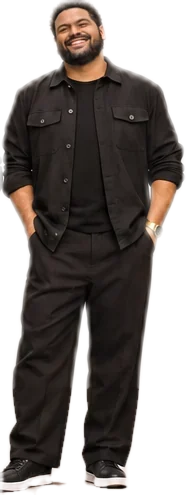
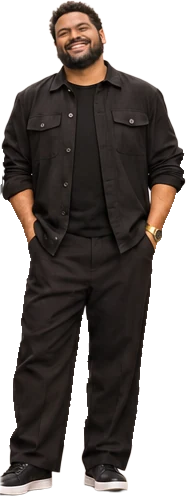
Refina os recortes e o destaque da aba Figurino
- Recortes refeitos com um modelo mais preciso (BiRefNet), pessoa por
  pessoa: sem manchas no chão, sem pedaços de vizinhos, sem fundo preso
  entre as pernas, com pés, saltos e acessórios dourados inteiros
- Contorno dourado iluminado na pessoa em destaque, que acompanha a
  silhueta e disfarça a borda do recorte
- As pessoas das pontas crescem a partir da borda e não saem do quadro
- Com mouse, passar por cima só acende um brilho, sem mover; no celular
  não há efeito de hover preso depois do toque

Claude-Session: https://claude.ai/code/session_017LpdMGLPweg6kQtkkQQm3j

diff --git a/index.html b/index.html
@@ -694,10 +694,17 @@
     .look-dim { position:absolute; inset:0; z-index:1; background:rgba(16,13,10,.5); opacity:0; pointer-events:none; transition:opacity .45s ease; }
     .look-stage.has-front .look-dim { opacity:1; }
     .look-person { position:absolute; z-index:2; margin:0; padding:0; border:0; background:none; cursor:pointer; -webkit-tap-highlight-color:transparent; }
-    .look-person img { position:absolute; inset:0; width:100%; height:100%; display:block; pointer-events:none; opacity:0; transform-origin:50% 100%; transition:transform .55s cubic-bezier(.2,.8,.2,1), filter .55s ease, opacity 0s linear .55s; }
-    .look-person:hover img { opacity:1; transform:translateY(-.6%) scale(1.025); transition:transform .3s ease, opacity 0s; }
+    /* Cada pessoa cresce a partir dos próprios pés; nas pontas, a partir da borda (--ox), para não sair do quadro. */
+    .look-person img { position:absolute; inset:0; width:100%; height:100%; display:block; pointer-events:none; opacity:0; transform-origin:var(--ox,50%) 100%;
+      filter:drop-shadow(0 0 0 rgba(255,236,190,0)) drop-shadow(0 0 0 rgba(240,200,120,0)) drop-shadow(0 0 0 rgba(223,187,119,0)) drop-shadow(0 0 0 rgba(0,0,0,0));
+      transition:transform .55s cubic-bezier(.2,.8,.2,1), filter .55s ease, opacity 0s linear .55s; }
+    /* Com mouse: só um brilho leve, sem mover (o recorte fica exatamente sobre a pessoa da imagem). */
+    @media (hover:hover) and (pointer:fine) { .look-person:not(.is-front):hover img { opacity:1; filter:drop-shadow(0 0 1px rgba(255,236,190,.8)) drop-shadow(0 0 4px rgba(240,200,120,.5)) drop-shadow(0 0 0 rgba(223,187,119,0)) drop-shadow(0 0 0 rgba(0,0,0,0)); transition:filter .25s ease, opacity 0s; } }
     .look-person.is-front { z-index:3; }
-    .look-person.is-front img { opacity:1; transform:translateY(3%) scale(1.22); filter:drop-shadow(0 16px 18px rgba(0,0,0,.45)); transition:transform .55s cubic-bezier(.2,.8,.2,1), filter .55s ease, opacity 0s; }
+    /* Contorno dourado iluminado que acompanha a silhueta e disfarça a borda do recorte. */
+    .look-person.is-front img { opacity:1; transform:translateY(3%) scale(1.22);
+      filter:drop-shadow(0 0 1px rgba(255,236,190,.95)) drop-shadow(0 0 5px rgba(240,200,120,.7)) drop-shadow(0 0 14px rgba(223,187,119,.45)) drop-shadow(0 16px 16px rgba(0,0,0,.45));
+      transition:transform .55s cubic-bezier(.2,.8,.2,1), filter .55s ease, opacity 0s; }
     .look-person:focus-visible { outline:2px solid var(--gold); outline-offset:3px; border-radius:8px; }
     .look-caption { width:min(100%,720px); min-height:3.4em; margin:16px auto 0; color:var(--muted); font-size:.95rem; line-height:1.5; text-align:center; }
     .look-caption strong { display:block; color:var(--gold); font-family:var(--serif); font-size:.82rem; font-weight:500; letter-spacing:.14em; text-transform:uppercase; }
@@ -1156,18 +1163,18 @@ NOV</strong>
         <div class="look-stage reveal" data-look-stage>
           <img class="look-base" src="images/figurino/guia-looks.webp" alt="Guia de looks Sport Chic All Black da Cantata de Natal: seis mulheres e seis homens vestidos de preto. Mulheres: tênis branco ou salto. Homens: tênis claro ou preto. Acessórios dourados." width="1024" height="1536" loading="lazy" decoding="async">
           <span class="look-dim" aria-hidden="true"></span>
-          <button class="look-person" type="button" style="left:2.148%;top:18.750%;width:17.383%;height:36.654%" aria-pressed="false" data-look="Mulheres · Look 1" data-desc="Blazer, blusa e calça pantalona, cinto e acessórios dourados, tênis branco" aria-label="Mulheres, look 1: Blazer, blusa e calça pantalona, cinto e acessórios dourados, tênis branco"><img src="images/figurino/mulheres-1.webp" alt="" width="178" height="563" loading="lazy" decoding="async"></button>
-          <button class="look-person" type="button" style="left:19.434%;top:21.940%;width:17.578%;height:32.161%" aria-pressed="false" data-look="Mulheres · Look 2" data-desc="Vestido midi com manga bufante e sandália de salto" aria-label="Mulheres, look 2: Vestido midi com manga bufante e sandália de salto"><img src="images/figurino/mulheres-2.webp" alt="" width="180" height="494" loading="lazy" decoding="async"></button>
-          <button class="look-person" type="button" style="left:36.914%;top:21.029%;width:13.965%;height:33.529%" aria-pressed="false" data-look="Mulheres · Look 3" data-desc="Blusa sem manga de gola alta, calça pantalona com faixa na cintura e tênis branco" aria-label="Mulheres, look 3: Blusa sem manga de gola alta, calça pantalona com faixa na cintura e tênis branco"><img src="images/figurino/mulheres-3.webp" alt="" width="143" height="515" loading="lazy" decoding="async"></button>
-          <button class="look-person" type="button" style="left:50.781%;top:20.898%;width:14.453%;height:33.919%" aria-pressed="false" data-look="Mulheres · Look 4" data-desc="Vestido envelope midi, bracelete dourado e sandália de salto" aria-label="Mulheres, look 4: Vestido envelope midi, bracelete dourado e sandália de salto"><img src="images/figurino/mulheres-4.webp" alt="" width="148" height="521" loading="lazy" decoding="async"></button>
-          <button class="look-person" type="button" style="left:65.137%;top:19.727%;width:16.699%;height:34.961%" aria-pressed="false" data-look="Mulheres · Look 5" data-desc="Camisa de botão, calça pantalona com faixa na cintura e tênis branco" aria-label="Mulheres, look 5: Camisa de botão, calça pantalona com faixa na cintura e tênis branco"><img src="images/figurino/mulheres-5.webp" alt="" width="171" height="537" loading="lazy" decoding="async"></button>
-          <button class="look-person" type="button" style="left:81.738%;top:21.680%;width:16.602%;height:33.724%" aria-pressed="false" data-look="Mulheres · Look 6" data-desc="Blusa sem manga de gola alta, calça pantalona com cinto dourado e sandália de salto" aria-label="Mulheres, look 6: Blusa sem manga de gola alta, calça pantalona com cinto dourado e sandália de salto"><img src="images/figurino/mulheres-6.webp" alt="" width="170" height="518" loading="lazy" decoding="async"></button>
-          <button class="look-person" type="button" style="left:2.441%;top:63.021%;width:17.480%;height:30.859%" aria-pressed="false" data-look="Homens · Look 1" data-desc="Camisa de botão, calça jeans escura e tênis branco" aria-label="Homens, look 1: Camisa de botão, calça jeans escura e tênis branco"><img src="images/figurino/homens-1.webp" alt="" width="179" height="474" loading="lazy" decoding="async"></button>
-          <button class="look-person" type="button" style="left:19.824%;top:60.612%;width:14.062%;height:33.529%" aria-pressed="false" data-look="Homens · Look 2" data-desc="Camisa polo, calça de sarja e tênis preto" aria-label="Homens, look 2: Camisa polo, calça de sarja e tênis preto"><img src="images/figurino/homens-2.webp" alt="" width="144" height="515" loading="lazy" decoding="async"></button>
-          <button class="look-person" type="button" style="left:33.789%;top:62.044%;width:16.113%;height:31.966%" aria-pressed="false" data-look="Homens · Look 3" data-desc="Suéter, calça jeans escura e tênis branco" aria-label="Homens, look 3: Suéter, calça jeans escura e tênis branco"><img src="images/figurino/homens-3.webp" alt="" width="165" height="491" loading="lazy" decoding="async"></button>
-          <button class="look-person" type="button" style="left:49.805%;top:61.719%;width:18.164%;height:32.292%" aria-pressed="false" data-look="Homens · Look 4" data-desc="Jaqueta sobre camiseta, calça de sarja e tênis preto" aria-label="Homens, look 4: Jaqueta sobre camiseta, calça de sarja e tênis preto"><img src="images/figurino/homens-4.webp" alt="" width="186" height="496" loading="lazy" decoding="async"></button>
-          <button class="look-person" type="button" style="left:68.164%;top:62.826%;width:13.477%;height:31.120%" aria-pressed="false" data-look="Homens · Look 5" data-desc="Blusa de gola alta, calça de sarja e tênis claro" aria-label="Homens, look 5: Blusa de gola alta, calça de sarja e tênis claro"><img src="images/figurino/homens-5.webp" alt="" width="138" height="478" loading="lazy" decoding="async"></button>
-          <button class="look-person" type="button" style="left:81.543%;top:61.198%;width:17.676%;height:33.398%" aria-pressed="false" data-look="Homens · Look 6" data-desc="Camisa de botão, calça jeans escura e tênis preto" aria-label="Homens, look 6: Camisa de botão, calça jeans escura e tênis preto"><img src="images/figurino/homens-6.webp" alt="" width="181" height="513" loading="lazy" decoding="async"></button>
+          <button class="look-person" type="button" style="left:2.344%;top:18.945%;width:17.090%;height:36.133%;--ox:22.3%" aria-pressed="false" data-look="Mulheres · Look 1" data-desc="Blazer, blusa e calça pantalona, cinto e acessórios dourados, tênis branco" aria-label="Mulheres, look 1: Blazer, blusa e calça pantalona, cinto e acessórios dourados, tênis branco"><img src="images/figurino/mulheres-1.webp" alt="" width="175" height="555" loading="lazy" decoding="async"></button>
+          <button class="look-person" type="button" style="left:19.531%;top:22.005%;width:17.383%;height:32.617%;--ox:50.0%" aria-pressed="false" data-look="Mulheres · Look 2" data-desc="Vestido midi com manga bufante e sandália de salto" aria-label="Mulheres, look 2: Vestido midi com manga bufante e sandália de salto"><img src="images/figurino/mulheres-2.webp" alt="" width="178" height="501" loading="lazy" decoding="async"></button>
+          <button class="look-person" type="button" style="left:37.207%;top:21.094%;width:13.672%;height:33.268%;--ox:50.0%" aria-pressed="false" data-look="Mulheres · Look 3" data-desc="Blusa sem manga de gola alta, calça pantalona com faixa na cintura e tênis branco" aria-label="Mulheres, look 3: Blusa sem manga de gola alta, calça pantalona com faixa na cintura e tênis branco"><img src="images/figurino/mulheres-3.webp" alt="" width="140" height="511" loading="lazy" decoding="async"></button>
+          <button class="look-person" type="button" style="left:51.465%;top:20.964%;width:13.477%;height:33.594%;--ox:50.0%" aria-pressed="false" data-look="Mulheres · Look 4" data-desc="Vestido envelope midi, bracelete dourado e sandália de salto" aria-label="Mulheres, look 4: Vestido envelope midi, bracelete dourado e sandália de salto"><img src="images/figurino/mulheres-4.webp" alt="" width="138" height="516" loading="lazy" decoding="async"></button>
+          <button class="look-person" type="button" style="left:65.137%;top:19.922%;width:16.309%;height:34.635%;--ox:50.0%" aria-pressed="false" data-look="Mulheres · Look 5" data-desc="Camisa de botão, calça pantalona com faixa na cintura e tênis branco" aria-label="Mulheres, look 5: Camisa de botão, calça pantalona com faixa na cintura e tênis branco"><img src="images/figurino/mulheres-5.webp" alt="" width="167" height="532" loading="lazy" decoding="async"></button>
+          <button class="look-person" type="button" style="left:82.129%;top:21.680%;width:16.016%;height:33.073%;--ox:86.4%" aria-pressed="false" data-look="Mulheres · Look 6" data-desc="Blusa sem manga de gola alta, calça pantalona com cinto dourado e sandália de salto" aria-label="Mulheres, look 6: Blusa sem manga de gola alta, calça pantalona com cinto dourado e sandália de salto"><img src="images/figurino/mulheres-6.webp" alt="" width="164" height="508" loading="lazy" decoding="async"></button>
+          <button class="look-person" type="button" style="left:2.734%;top:63.086%;width:17.090%;height:30.534%;--ox:29.9%" aria-pressed="false" data-look="Homens · Look 1" data-desc="Camisa de botão, calça jeans escura e tênis branco" aria-label="Homens, look 1: Camisa de botão, calça jeans escura e tênis branco"><img src="images/figurino/homens-1.webp" alt="" width="175" height="469" loading="lazy" decoding="async"></button>
+          <button class="look-person" type="button" style="left:20.117%;top:60.612%;width:13.770%;height:33.268%;--ox:50.0%" aria-pressed="false" data-look="Homens · Look 2" data-desc="Camisa polo, calça de sarja e tênis preto" aria-label="Homens, look 2: Camisa polo, calça de sarja e tênis preto"><img src="images/figurino/homens-2.webp" alt="" width="141" height="511" loading="lazy" decoding="async"></button>
+          <button class="look-person" type="button" style="left:33.789%;top:61.979%;width:16.016%;height:31.771%;--ox:50.0%" aria-pressed="false" data-look="Homens · Look 3" data-desc="Suéter, calça jeans escura e tênis branco" aria-label="Homens, look 3: Suéter, calça jeans escura e tênis branco"><img src="images/figurino/homens-3.webp" alt="" width="164" height="488" loading="lazy" decoding="async"></button>
+          <button class="look-person" type="button" style="left:49.805%;top:61.458%;width:18.164%;height:32.292%;--ox:50.0%" aria-pressed="false" data-look="Homens · Look 4" data-desc="Jaqueta sobre camiseta, calça de sarja e tênis preto" aria-label="Homens, look 4: Jaqueta sobre camiseta, calça de sarja e tênis preto"><img src="images/figurino/homens-4.webp" alt="" width="186" height="496" loading="lazy" decoding="async"></button>
+          <button class="look-person" type="button" style="left:68.262%;top:62.891%;width:13.281%;height:30.729%;--ox:50.0%" aria-pressed="false" data-look="Homens · Look 5" data-desc="Blusa de gola alta, calça de sarja e tênis claro" aria-label="Homens, look 5: Blusa de gola alta, calça de sarja e tênis claro"><img src="images/figurino/homens-5.webp" alt="" width="136" height="472" loading="lazy" decoding="async"></button>
+          <button class="look-person" type="button" style="left:81.543%;top:61.003%;width:16.602%;height:32.943%;--ox:86.8%" aria-pressed="false" data-look="Homens · Look 6" data-desc="Camisa de botão, calça jeans escura e tênis preto" aria-label="Homens, look 6: Camisa de botão, calça jeans escura e tênis preto"><img src="images/figurino/homens-6.webp" alt="" width="170" height="506" loading="lazy" decoding="async"></button>
         </div>
         <p class="look-caption" aria-live="polite"><span class="look-caption-hint">Toque em uma pessoa para ela dar um passo à frente.</span></p>
       </div>
